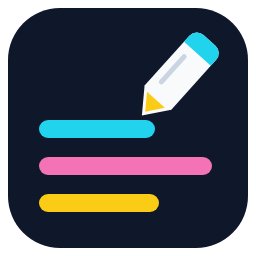
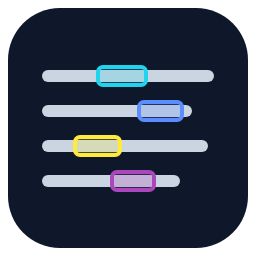
feat: 更新扩展图标以清楚展示文本高亮

Changed region(s): [[0.125, 0.125, 0.875, 0.8438]]

diff --git a/README.en.md b/README.en.md
@@ -1,8 +1,8 @@
 # Text Marker Custom
 
-[简体中文](https://github.com/luck-gh/vscode-text-marker/blob/v1.14.1/README.md) | English
+[简体中文](https://github.com/luck-gh/vscode-text-marker/blob/v1.14.2/README.md) | English
 
-![Text Marker Custom](https://raw.githubusercontent.com/luck-gh/vscode-text-marker/v1.14.1/images/text-marker-custom.png)
+![Text Marker Custom](https://raw.githubusercontent.com/luck-gh/vscode-text-marker/v1.14.2/images/text-marker-custom.png)
 
 Configurable text highlights with configurable borders and corners, and English and Chinese UI. Select text such as `au8_data[0]` to highlight full matches, or use a regular expression.
 
@@ -12,7 +12,7 @@ The links above switch this introduction manually. Extension menus, setting desc
 
 ## Installation and migration
 
-Requires VS Code 1.73 or later. Download the VSIX from the [GitHub Release](https://github.com/luck-gh/vscode-text-marker/releases/tag/v1.14.1) and run `Extensions: Install from VSIX...`. After Marketplace publication, the extension can also be found by ID `luck-gh.text-marker-custom`.
+Requires VS Code 1.73 or later. Download the VSIX from the [GitHub Release](https://github.com/luck-gh/vscode-text-marker/releases/tag/v1.14.2) and run `Extensions: Install from VSIX...`. After Marketplace publication, the extension can also be found by ID `luck-gh.text-marker-custom`.
 
 Disable or uninstall the original `ryu1kn.text-marker` first. Both editions use the same `textmarker.*` setting and command identifiers and must not be enabled together. Saved highlight rules, personal colors and custom keybindings retain those identifiers. Installation does not rewrite user configuration. Run `Developer: Reload Window` if an older edition is still active.
 
@@ -109,21 +109,21 @@ Highlight and unhighlight (original behavior):
 
 The first animation shows the old toggle command removing a highlight on its second invocation. Since 1.13.0, **Cycle Highlight Color** adds or recolors instead. Use **Unhighlight** (recommended Ctrl+Alt+H) to remove a rule. The current configuration-driven numbered color submenu and styles are not shown in these original animations.
 
-![Original demonstration: highlight and unhighlight](https://raw.githubusercontent.com/luck-gh/vscode-text-marker/v1.14.1/images/animations/public.gif)
+![Original demonstration: highlight and unhighlight](https://raw.githubusercontent.com/luck-gh/vscode-text-marker/v1.14.2/images/animations/public.gif)
 
 Case and whole-word matching:
 
-![Original demonstration: matching modes](https://raw.githubusercontent.com/luck-gh/vscode-text-marker/v1.14.1/images/animations/ignore-case-and-whole-match.gif)
+![Original demonstration: matching modes](https://raw.githubusercontent.com/luck-gh/vscode-text-marker/v1.14.2/images/animations/ignore-case-and-whole-match.gif)
 
 Edit an existing rule:
 
 Since 1.14.0, the action-selection step shown in this original animation is removed. Editing opens the rule input directly, with `Aa` / `Ab|` / `.*` buttons.
 
-![Original demonstration: edit highlight rules](https://raw.githubusercontent.com/luck-gh/vscode-text-marker/v1.14.1/images/animations/update-highlight.gif)
+![Original demonstration: edit highlight rules](https://raw.githubusercontent.com/luck-gh/vscode-text-marker/v1.14.2/images/animations/update-highlight.gif)
 
 ## Development, feedback and license
 
 - [Report an issue](https://github.com/luck-gh/vscode-text-marker/issues).
-- [Build and test instructions](https://github.com/luck-gh/vscode-text-marker/blob/v1.14.1/CONTRIBUTING.md), including compilation, stub tests and isolated real-host checks in all three display languages.
-- [Changelog](https://github.com/luck-gh/vscode-text-marker/blob/v1.14.1/CHANGELOG.md).
-- [MIT license](https://github.com/luck-gh/vscode-text-marker/blob/v1.14.1/LICENSE.txt), preserving `Copyright (c) 2016 Ryuichi Inagaki`.
+- [Build and test instructions](https://github.com/luck-gh/vscode-text-marker/blob/v1.14.2/CONTRIBUTING.md), including compilation, stub tests and isolated real-host checks in all three display languages.
+- [Changelog](https://github.com/luck-gh/vscode-text-marker/blob/v1.14.2/CHANGELOG.md).
+- [MIT license](https://github.com/luck-gh/vscode-text-marker/blob/v1.14.2/LICENSE.txt), preserving `Copyright (c) 2016 Ryuichi Inagaki`.

diff --git a/README.md b/README.md
@@ -1,8 +1,8 @@
 # Text Marker Custom
 
-简体中文 | [English](https://github.com/luck-gh/vscode-text-marker/blob/v1.14.1/README.en.md)
+简体中文 | [English](https://github.com/luck-gh/vscode-text-marker/blob/v1.14.2/README.en.md)
 
-![Text Marker Custom](https://raw.githubusercontent.com/luck-gh/vscode-text-marker/v1.14.1/images/text-marker-custom.png)
+![Text Marker Custom](https://raw.githubusercontent.com/luck-gh/vscode-text-marker/v1.14.2/images/text-marker-custom.png)
 
 可配置色板的文本高亮, 可调边框和圆角, 支持英文与简繁中文界面. 选中 `au8_data[0]` 等文本即可高亮完整匹配项, 也可以使用正则表达式.
 
@@ -12,7 +12,7 @@
 
 ## 安装与原版迁移
 
-需要 VS Code 1.73 或更高版本. 可从 [GitHub Release](https://github.com/luck-gh/vscode-text-marker/releases/tag/v1.14.1) 下载 VSIX, 执行 `Extensions: Install from VSIX...` 安装. Marketplace 发布后也可按 ID `luck-gh.text-marker-custom` 查找安装.
+需要 VS Code 1.73 或更高版本. 可从 [GitHub Release](https://github.com/luck-gh/vscode-text-marker/releases/tag/v1.14.2) 下载 VSIX, 执行 `Extensions: Install from VSIX...` 安装. Marketplace 发布后也可按 ID `luck-gh.text-marker-custom` 查找安装.
 
 切换前先禁用或卸载原版 `ryu1kn.text-marker`. 两个版本沿用同一套 `textmarker.*` 命令和设置, 不能同时启用. 已保存的高亮规则, 个人调色板和自定义快捷键继续使用原标识符. 安装不会重写用户配置; 旧版仍在运行的窗口需要执行 `Developer: Reload Window`.
 
@@ -109,21 +109,21 @@
 
 第一张动图中的旧切换命令会在第二次调用时移除高亮. 从 1.13.0 起, **切换高亮颜色** 执行添加或循环换色; 取消请使用 **取消高亮** (推荐 Ctrl+Alt+H). 原动图也未展示当前配置驱动的序号颜色子菜单与样式.
 
-![原作者演示: 高亮与取消高亮](https://raw.githubusercontent.com/luck-gh/vscode-text-marker/v1.14.1/images/animations/public.gif)
+![原作者演示: 高亮与取消高亮](https://raw.githubusercontent.com/luck-gh/vscode-text-marker/v1.14.2/images/animations/public.gif)
 
 大小写与整词匹配:
 
-![原作者演示: 匹配模式](https://raw.githubusercontent.com/luck-gh/vscode-text-marker/v1.14.1/images/animations/ignore-case-and-whole-match.gif)
+![原作者演示: 匹配模式](https://raw.githubusercontent.com/luck-gh/vscode-text-marker/v1.14.2/images/animations/ignore-case-and-whole-match.gif)
 
 编辑已有规则:
 
 此原版动图中的独立操作选择步骤已在 1.14.0 删除; 当前直接打开带 `Aa` / `Ab|` / `.*` 按钮的规则输入框.
 
-![原作者演示: 编辑高亮规则](https://raw.githubusercontent.com/luck-gh/vscode-text-marker/v1.14.1/images/animations/update-highlight.gif)
+![原作者演示: 编辑高亮规则](https://raw.githubusercontent.com/luck-gh/vscode-text-marker/v1.14.2/images/animations/update-highlight.gif)
 
 ## 开发, 反馈与许可
 
 - [提交问题](https://github.com/luck-gh/vscode-text-marker/issues).
-- [构建与测试说明](https://github.com/luck-gh/vscode-text-marker/blob/v1.14.1/CONTRIBUTING.md), 包含编译, 模拟测试和隔离的三语真实宿主验收.
-- [更新记录](https://github.com/luck-gh/vscode-text-marker/blob/v1.14.1/CHANGELOG.md).
-- [MIT 许可证](https://github.com/luck-gh/vscode-text-marker/blob/v1.14.1/LICENSE.txt), 保留 `Copyright (c) 2016 Ryuichi Inagaki`.
+- [构建与测试说明](https://github.com/luck-gh/vscode-text-marker/blob/v1.14.2/CONTRIBUTING.md), 包含编译, 模拟测试和隔离的三语真实宿主验收.
+- [更新记录](https://github.com/luck-gh/vscode-text-marker/blob/v1.14.2/CHANGELOG.md).
+- [MIT 许可证](https://github.com/luck-gh/vscode-text-marker/blob/v1.14.2/LICENSE.txt), 保留 `Copyright (c) 2016 Ryuichi Inagaki`.

diff --git a/CHANGELOG.md b/CHANGELOG.md
@@ -5,6 +5,10 @@ All notable changes to "Text Marker Custom" extension will be documented in this
 The format is based on [Keep a Changelog](http://keepachangelog.com/en/1.0.0/)
 and this project adheres to [Semantic Versioning](http://semver.org/spec/v2.0.0.html).
 
+## [1.14.2] - 2026-10-25
+
+- Updated the extension icon to show text lines with clearly outlined, colored highlight segments.
+
 ## [1.14.1] - 2026-10-25
 
 - Fixed creation from Edit Highlight Rules when no rules exist. The edit picker previously only accepted existing rules and showed a no-highlights message; its first row now offers Add rule and opens the existing three-button input. Unique matches still open directly. Enter commits, Esc leaves rules and color allocation untouched.
